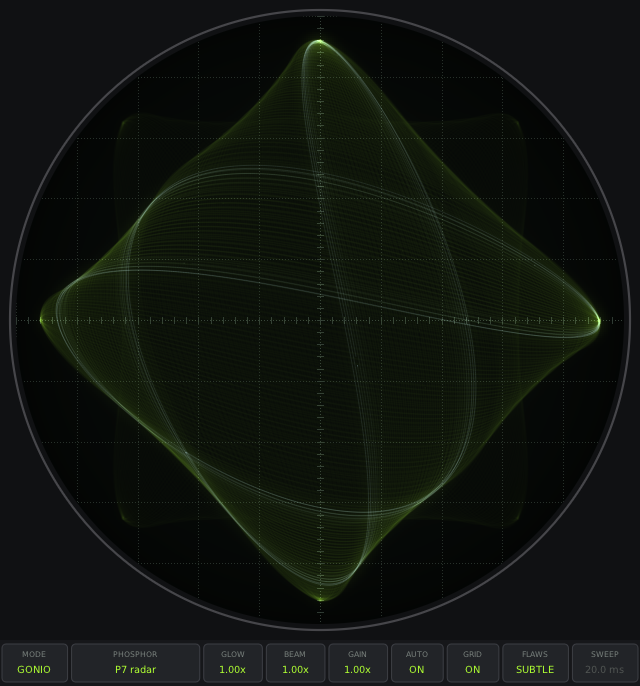
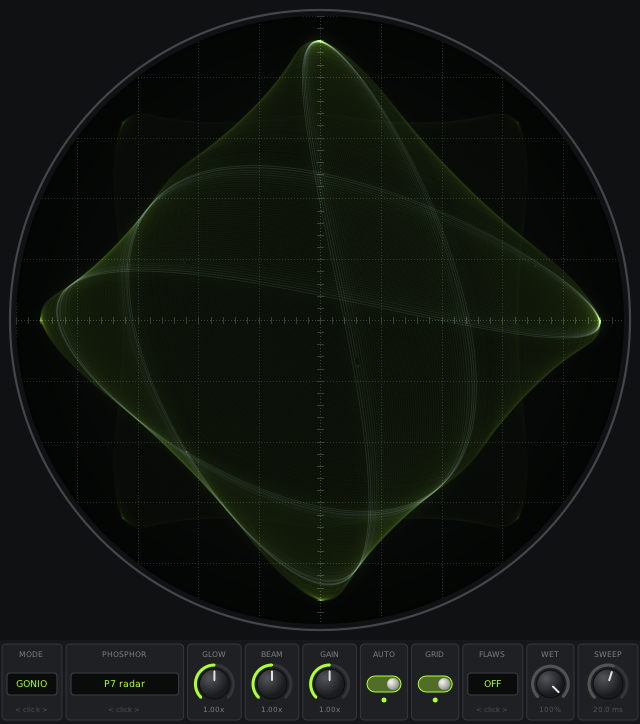
Knobs and switches in the control strip
GLOW/BEAM/GAIN/WET/SWEEP are dials (drag or scroll, right-click resets),
AUTO/GRID are slide switches with a lamp, MODE/PHOSPHOR/FLAWS show in
lit display windows. Taller strip (84px). Test host drags the GLOW knob.

diff --git a/CrtScopeUI.cpp b/CrtScopeUI.cpp
@@ -119,17 +119,20 @@ private:
 #endif
 
 static constexpr uint kTubeSize = 640;
-static constexpr uint kStrip = 46;
+static constexpr uint kStrip = 84;
 
+// selectors step through choices, knobs turn (drag up/down), switches flip
+enum Kind { kSelect, kKnob, kSwitch };
 struct Button {
     uint32_t param;
     const char* caption;
+    Kind kind;
 };
 static const Button kButtons[] = {
-    {kMode, "MODE"},     {kPhosphor, "PHOSPHOR"}, {kAfterglow, "GLOW"},
-    {kIntensity, "BEAM"}, {kGain, "GAIN"},         {kAutoGain, "AUTO"},
-    {kGraticule, "GRID"}, {kFlaws, "FLAWS"},       {kWet, "WET"},
-    {kSweep, "SWEEP"},
+    {kMode, "MODE", kSelect},     {kPhosphor, "PHOSPHOR", kSelect}, {kAfterglow, "GLOW", kKnob},
+    {kIntensity, "BEAM", kKnob},  {kGain, "GAIN", kKnob},           {kAutoGain, "AUTO", kSwitch},
+    {kGraticule, "GRID", kSwitch}, {kFlaws, "FLAWS", kSelect},      {kWet, "WET", kKnob},
+    {kSweep, "SWEEP", kKnob},
 };
 static constexpr int kNumButtons = sizeof(kButtons) / sizeof(kButtons[0]);
 // how wide each button is, relative (phosphor names are long)
@@ -280,8 +283,13 @@ protected:
 
     bool onMouse(const MouseEvent& ev) override
     {
-        if (!ev.press)
-            return false;
+        if (!ev.press) {
+            if (fDrag < 0)
+                return false;
+            editParameter(kButtons[fDrag].param, false);
+            fDrag = -1;
+            return true;
+        }
         const int b = buttonAt(ev.pos.getX(), ev.pos.getY());
         if (b < 0) {
             if (fTube.mode != crt::kImage || ev.button != 1)
@@ -291,7 +299,33 @@ protected:
             openFileBrowser(opts);
             return true;
         }
+        if (kButtons[b].kind == kKnob) {
+            const uint32_t p = kButtons[b].param;
+            if (ev.button == 3) {  // right-click: back to the default
+                editParameter(p, true);
+                setValue(p, knobDefault(p));
+                editParameter(p, false);
+                return true;
+            }
+            if (ev.button != 1)
+                return false;
+            fDrag = b;  // left: drag up/down to turn
+            fDragY = ev.pos.getY();
+            fDragNorm = toNorm(p, fValues[p]);
+            editParameter(p, true);
+            return true;
+        }
         nudge(b, ev.button == 3 ? -1 : 1);  // right button goes back
+        return true;
+    }
+
+    bool onMotion(const MotionEvent& ev) override
+    {
+        if (fDrag < 0)
+            return false;
+        const uint32_t p = kButtons[fDrag].param;
+        const float n = std::clamp(fDragNorm + (float)(fDragY - ev.pos.getY()) / (200.0f * (float)getScaleFactor()), 0.0f, 1.0f);
+        setValue(p, fromNorm(p, n));
         return true;
     }
 
@@ -423,6 +457,33 @@ private:
         fTube.sweepMs = fValues[kSweep];
     }
 
+    int fDrag = -1;
+    double fDragY = 0;
+    float fDragNorm = 0;
+
+    // knobs: where the value sits on the dial, 0..1 (multipliers turn on a log scale)
+    static float toNorm(uint32_t p, float v)
+    {
+        if (p == kWet) return std::clamp(v, 0.0f, 1.0f);
+        const float lo = p == kSweep ? 1.0f : 0.05f, hi = p == kSweep ? 200.0f : 20.0f;
+        return std::clamp(std::log(std::max(v, lo) / lo) / std::log(hi / lo), 0.0f, 1.0f);
+    }
+    static float fromNorm(uint32_t p, float n)
+    {
+        if (p == kWet) return n;
+        const float lo = p == kSweep ? 1.0f : 0.05f, hi = p == kSweep ? 200.0f : 20.0f;
+        return lo * std::pow(hi / lo, n);
+    }
+    static float knobDefault(uint32_t p) { return p == kSweep ? 20.0f : 1.0f; }
+
+    void setValue(uint32_t p, float v)
+    {
+        fValues[p] = v;
+        apply();
+        setParameterValue(p, v);
+        repaint();
+    }
+
     // Change a setting by one step and tell the host (so FL records automation)
     void nudge(int b, int dir)
     {
@@ -435,7 +496,7 @@ private:
         case kAutoGain:
         case kGraticule: v = v > 0.5f ? 0.0f : 1.0f; break;
         case kSweep:     v = std::clamp(v * (dir > 0 ? 1.5f : 1 / 1.5f), 1.0f, 200.0f); break;
-        case kWet:       v = std::clamp(std::round(v * 10 + dir) / 10, 0.0f, 1.0f); break;
+        case kWet:       v = std::clamp(std::round(v * 20 + dir) / 20, 0.0f, 1.0f); break;
         default:         v = std::clamp(v * (dir > 0 ? 1.25f : 0.8f), 0.05f, 20.0f); break;
         }
         fValues[p] = v;
@@ -504,29 +565,113 @@ private:
         fill();
         const crt::Phosphor& ph = crt::phosphors()[std::clamp((int)std::lround(fValues[kPhosphor]), 0, 18)];
         const Color accent((int)ph.glow[0], (int)ph.glow[1], (int)ph.glow[2]);
+        const Color label(120, 128, 124), off(80, 84, 82);
         fontFace(NANOVG_DEJAVU_SANS_TTF);
         textAlign(ALIGN_CENTER | ALIGN_MIDDLE);
         char buf[48];
+        const bool picture = std::lround(fValues[kMode]) == crt::kImage && fPic;
         for (int b = 0; b < kNumButtons; ++b) {
             float x, w;
             buttonRect(b, x, w);
-            const bool dim = (kButtons[b].param == kSweep && std::lround(fValues[kMode]) != crt::kWave)
-                          || (kButtons[b].param == kWet && std::lround(fValues[kFlaws]) == 0);
+            const uint32_t p = kButtons[b].param;
+            const bool dim = (p == kSweep && std::lround(fValues[kMode]) != crt::kWave)
+                          || (p == kWet && std::lround(fValues[kFlaws]) == 0 && !picture);
+            const Color col = dim ? off : accent;
+            const float cx = x + w / 2, cy = y0 + 44 * scale;
             beginPath();
             roundedRect(x + 2 * scale, y0 + 4 * scale, w - 4 * scale, h - 8 * scale, 4 * scale);
-            fillColor(Color(34, 36, 40));
+            fillColor(Color(30, 32, 36));
             fill();
-            strokeColor(Color(60, 62, 68));
+            strokeColor(Color(52, 54, 60));
             strokeWidth(1);
             stroke();
             fontSize(9 * scale);
-            fillColor(Color(120, 128, 124));
-            text(x + w / 2, y0 + 15 * scale, kButtons[b].caption, nullptr);
-            valueText(kButtons[b].param, buf, sizeof(buf));
-            fontSize(11.5f * scale);
-            fillColor(dim ? Color(80, 84, 82) : accent);
-            text(x + w / 2, y0 + 30 * scale, buf, nullptr);
+            fillColor(label);
+            text(cx, y0 + 15 * scale, kButtons[b].caption, nullptr);
+
+            if (kButtons[b].kind == kKnob) {
+                drawKnob(cx, cy, std::min(w * 0.27f, 15 * scale), toNorm(p, fValues[p]), col, scale);
+                valueText(p, buf, sizeof(buf));
+                fontSize(8.5f * scale);
+                fillColor(dim ? off : label);
+                text(cx, y0 + 70 * scale, buf, nullptr);
+            } else if (kButtons[b].kind == kSwitch) {
+                drawSwitch(cx, cy, fValues[p] > 0.5f, accent, scale);
+            } else {
+                // a little lit display window
+                const float dw = w - 14 * scale, dh = 22 * scale;
+                beginPath();
+                roundedRect(cx - dw / 2, cy - dh / 2, dw, dh, 3 * scale);
+                fillColor(Color(10, 12, 11));
+                fill();
+                strokeColor(Color(60, 62, 68));
+                stroke();
+                valueText(p, buf, sizeof(buf));
+                fontSize(11 * scale);
+                fillColor(col);
+                text(cx, cy, buf, nullptr);
+                fontSize(8 * scale);
+                fillColor(off);
+                text(cx, y0 + 70 * scale, "< click >", nullptr);
+            }
         }
+    }
+
+    // a dial: dark knob, a lit arc showing the setting, a pointer
+    void drawKnob(float cx, float cy, float r, float n, const Color& col, float scale)
+    {
+        const float a0 = 0.75f * 3.14159265f, a1 = 2.25f * 3.14159265f;
+        const float a = a0 + (a1 - a0) * n;
+        lineCap(ROUND);
+        beginPath();
+        arc(cx, cy, r + 4 * scale, a0, a1, CW);
+        strokeColor(Color(50, 53, 58));
+        strokeWidth(3 * scale);
+        stroke();
+        if (n > 0.002f) {
+            beginPath();
+            arc(cx, cy, r + 4 * scale, a0, a, CW);
+            strokeColor(col);
+            strokeWidth(3 * scale);
+            stroke();
+        }
+        beginPath();
+        circle(cx, cy, r);
+        fillPaint(radialGradient(cx - r * 0.3f, cy - r * 0.4f, r * 0.1f, r * 1.2f, Color(78, 80, 86), Color(26, 27, 30)));
+        fill();
+        strokeColor(Color(12, 12, 14));
+        strokeWidth(1);
+        stroke();
+        beginPath();
+        moveTo(cx + std::cos(a) * r * 0.25f, cy + std::sin(a) * r * 0.25f);
+        lineTo(cx + std::cos(a) * r * 0.85f, cy + std::sin(a) * r * 0.85f);
+        strokeColor(Color(225, 228, 222));
+        strokeWidth(2 * scale);
+        stroke();
+        lineCap(BUTT);
+    }
+
+    // a slide switch: the lever sits right and lights up when on
+    void drawSwitch(float cx, float cy, bool on, const Color& col, float scale)
+    {
+        const float w = 34 * scale, h = 16 * scale;
+        beginPath();
+        roundedRect(cx - w / 2, cy - h / 2, w, h, h / 2);
+        fillColor(on ? Color(col.red, col.green, col.blue, 0.35f) : Color(12, 13, 15));
+        fill();
+        strokeColor(on ? col : Color(60, 62, 68));
+        strokeWidth(1);
+        stroke();
+        const float kx = on ? cx + w / 2 - h / 2 : cx - w / 2 + h / 2;
+        beginPath();
+        circle(kx, cy, h / 2 - 2 * scale);
+        fillPaint(radialGradient(kx - 2 * scale, cy - 2 * scale, 1, h / 2, Color(235, 236, 232), Color(150, 152, 150)));
+        fill();
+        // little indicator lamp under the switch
+        beginPath();
+        circle(cx, cy + 16 * scale, 2.5f * scale);
+        fillColor(on ? col : Color(40, 42, 44));
+        fill();
     }
 
     DISTRHO_DECLARE_NON_COPYABLE_WITH_LEAK_DETECTOR(CrtScopeUI)

diff --git a/tests/minihost.cpp b/tests/minihost.cpp
@@ -605,6 +605,19 @@ int main(int argc, char** argv)
     std::printf("after clicking MODE: %d edit(s), param %d -> %.3f\n", gEdits.load(), gLastParam.load(), gLastValue.load());
     const bool modeClicked = gEdits > 0 && gLastParam == 0;
 
+    // ---- turn the GLOW knob: press on it, drag up, let go
+    const int knobX = (int)(cr.right * 2.9 / 10.0 + cr.right * 0.9 / 10.0 / 2), knobY = cr.bottom - 84 + 44;
+    PostMessageA(child, WM_MOUSEMOVE, 0, MAKELPARAM(knobX, knobY));
+    PostMessageA(child, WM_LBUTTONDOWN, MK_LBUTTON, MAKELPARAM(knobX, knobY));
+    for (int i = 1; i <= 10; ++i) {
+        PostMessageA(child, WM_MOUSEMOVE, MK_LBUTTON, MAKELPARAM(knobX, knobY - i * 6));
+        pump(0.05);
+    }
+    PostMessageA(child, WM_LBUTTONUP, 0, MAKELPARAM(knobX, knobY - 60));
+    pump(0.5);
+    std::printf("after dragging GLOW up: param %d -> %.3f (default 1.0x = 0.048)\n", gLastParam.load(), gLastValue.load());
+    const bool knobTurned = gLastParam == 2 && gLastValue > 0.1;  // host value is linear: (v - 0.05) / 19.95
+
     // ---- drag a picture onto the window, like dropping a file from Explorer
     bool dropped = true, saved = true;
     if (argc > 2) {
@@ -664,6 +677,7 @@ int main(int argc, char** argv)
     if (reloaded) std::printf("sound after reopening: %s\n", changed ? "shaped by the picture" : "UNCHANGED");
     CHECK(!reloaded || changed, "a reopened project's picture should shape the sound");
     CHECK(modeClicked, "clicking MODE should change parameter 0");
+    CHECK(knobTurned, "dragging the GLOW knob up should raise parameter 2");
     CHECK(dropped, "dropping a picture should switch to IMAGE mode");
     CHECK(saved, "the dropped picture should be saved with the project");
     std::printf("ALL OK\n");

diff --git a/README.md b/README.md
@@ -24,8 +24,12 @@ The audio passes through untouched, unless you turn on FLAWS or load a picture.
 - **FLAWS** (off / subtle / worn): an old tube's 60Hz mains hum, drift and
   flicker, on the picture and on the sound (hum ~41 dB / ~29 dB under the music)
 - **WET** (0-100%): how much of the flaws and the picture reach the sound
-- **Controls** along the bottom: left-click or scroll up = next / more,
-  right-click or scroll down = back / less. All of them are automatable.
+- **Controls** along the bottom, all automatable:
+  - **knobs** (GLOW, BEAM, GAIN, WET, SWEEP): drag up/down or scroll to turn,
+    right-click to reset
+  - **switches** (AUTO, GRID): click to flip
+  - **selectors** (MODE, PHOSPHOR, FLAWS): left-click / scroll up = next,
+    right-click / scroll down = back
 
 <p align="center">
   <img src="screenshots/window-image.png" width="45%" alt="A dropped GIF traced on the tube in IMAGE mode">
